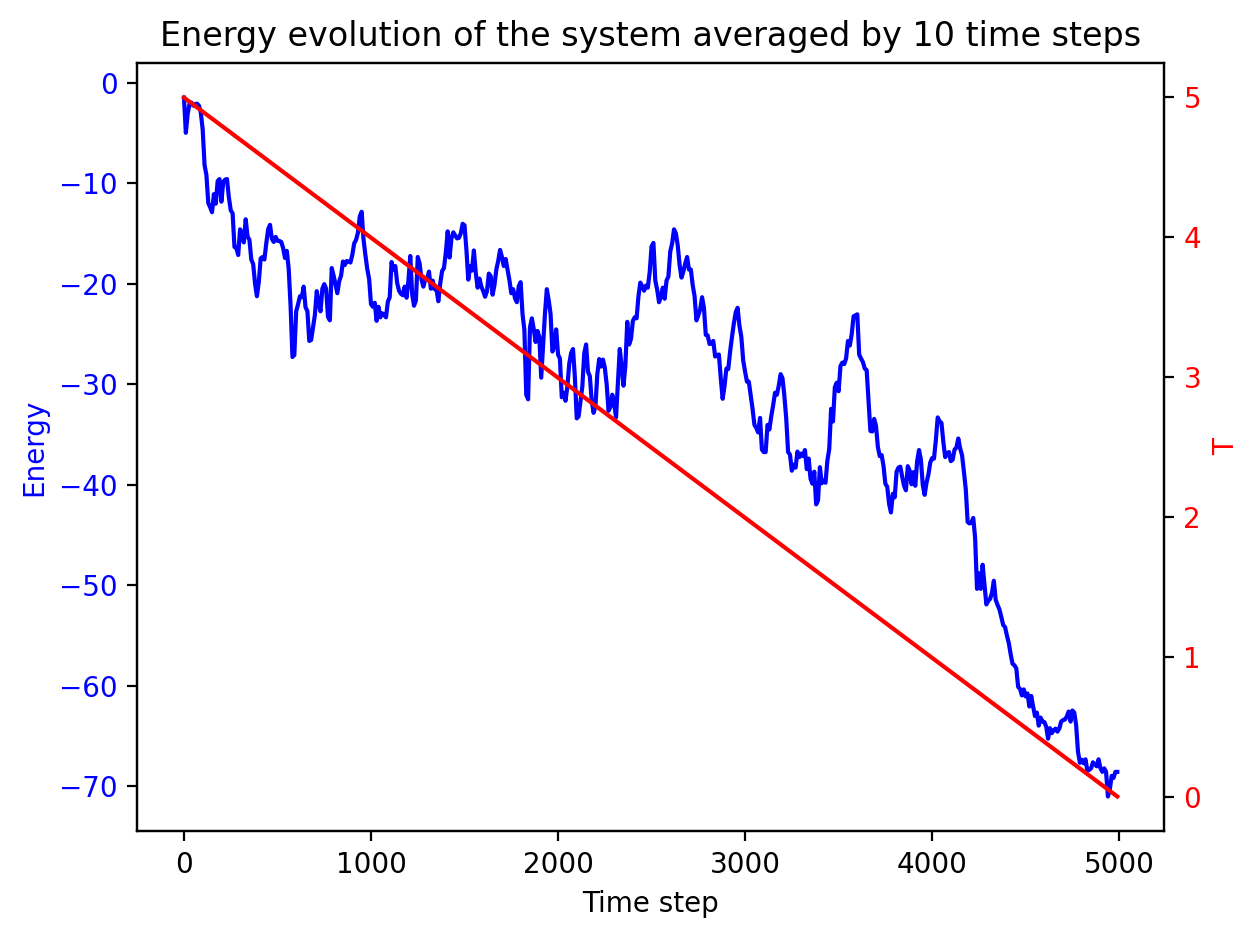
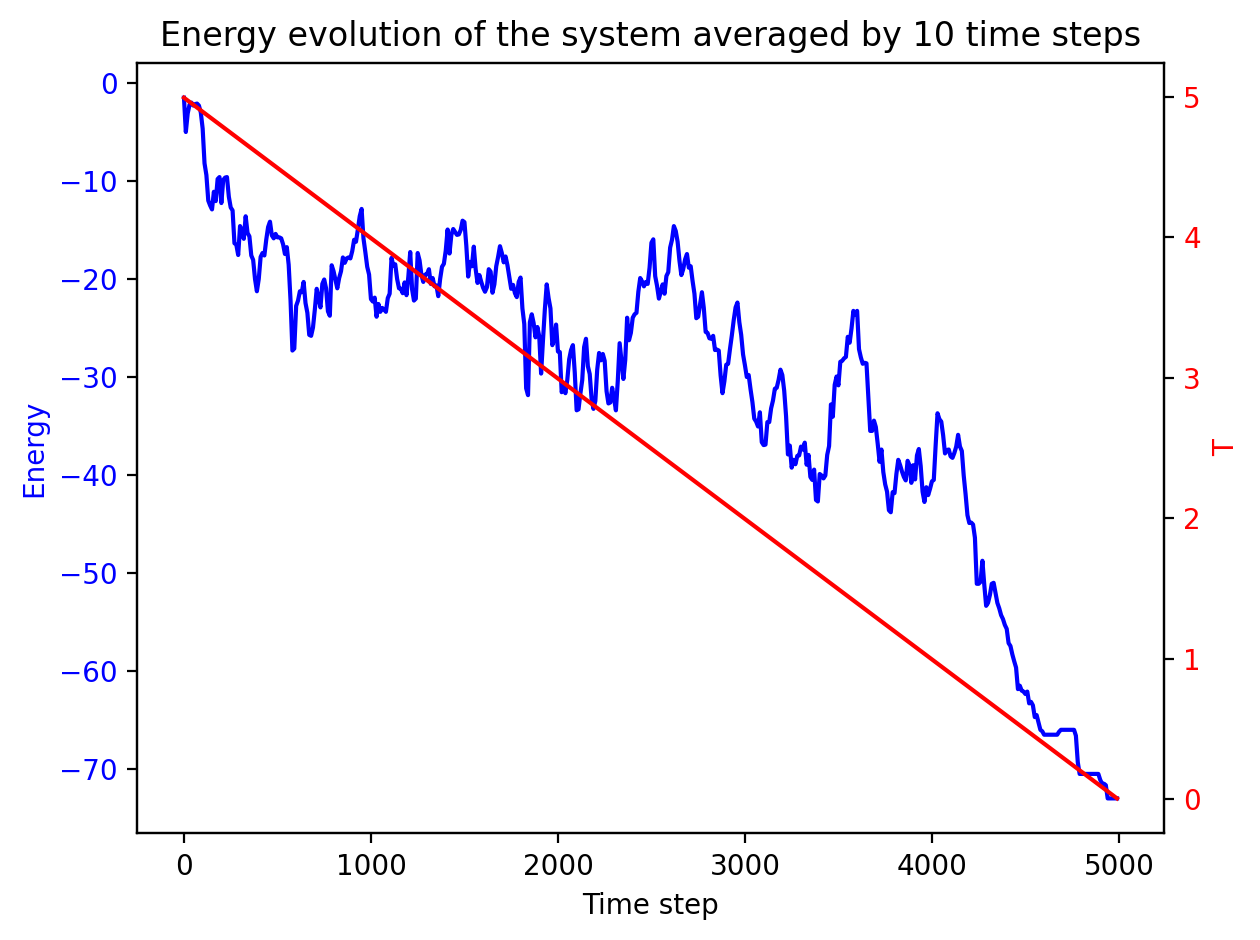
minors bug in protein energy evolution and README update

diff --git a/src/protein_class.py b/src/protein_class.py
@@ -114,12 +114,15 @@ class Protein:
         if new_energy > current_energy:
             if not self._accept_higher_energy(current_energy, new_energy, temperature):
                 self.struct = current_struct
+                self.energy_evolution.append(current_energy)
+            else:
+                self.energy_evolution.append(new_energy)
+        else:
+            self.energy_evolution.append(new_energy)
 
         # Update min energy and max compact structures
         if new_energy < min(self.energy_evolution):
             self.min_energy_structure = [coord.copy() for coord in self.struct]
-
-        self.energy_evolution.append(new_energy)
 
         comp = self.compactness()
         self.compactness_evolution.append(comp)

diff --git a/README.md b/README.md
@@ -36,20 +36,20 @@ From _terminal_ move into the desired folder and clone this repository using the
 git clone https://github.com/TommyGiak/HP_model.git
 ```
 
-Once the github repository is cloned use the following command to run the script with the default configuration file as
-input:
+Once the github repository is cloned use the following command to run the script, move to the `src` folder with:
+
+```shell
+cd src
+```
+
+and run the main script:
 
 ```shell
 python main.py
 ```
 
-the default configuration file is _config.txt_. Of course all the parameters can be setted, for further instruction look
+the default configuration file is _config.txt_ in the `src` folder. Of course all the parameters can be setted, for further instruction look
 at the following [paragraph](https://github.com/TommyGiak/HP_model#parameters-setting).\
-To use a specific configuration file, instead, use:
-
-```shell
-python main.py <filename>
-```
 
 To create a personalized configuration file
 look [here](https://github.com/TommyGiak/HP_model#create-a-personalized-configuration-file)\
@@ -66,7 +66,7 @@ configuration file exnovo as described below.
 
 ### Insert the protein sequence
 
-The protein sequence can be written in the _config.txt_ file at the _sequence_ variable. The sequence is caps sensitive
+The protein sequence can be written in the _config.txt_ file at the _sequence_ variable (in the `src` folder). The sequence is caps sensitive
 so the letters must be upper case only. The sequence doesn't need the quotation marks " or ' .\
 This sequence can be already given as H/P only monomers (hydrophobic or polar) or with the 20 different amino-acids
 coded upper case, is this case the sequence will be converted to H/P.
@@ -97,17 +97,35 @@ The new configuration file can have any extension.
 
 ## Repository structure
 
+```plaintext
+HP_model/
+├── data/
+│   └── all the plots...
+├── src/
+│   ├── __init__.py
+│   ├── config.yaml
+│   ├── main.py
+│   ├── plots.py
+│   ├── protein_class.py
+│   └── utils.py
+├── test/
+│   ├── __init__.py
+│   ├── config_test.yaml
+│   └── test.py
+└── requirements.txt
+```
+
 The repository contain these pyhton files:
 
-- _main.py_: runs the evolution and save the results in the _/data_ folder
-- _protein_class.py_: contains a class named `Protein` which contains and save the protein information and implement all
+- `src/main.py`: runs the evolution and save the results in the _/data_ folder
+- `src/protein_class.py`: contains a class named `Protein` which contains and save the protein information and implement all
   the main function for the evolution of the system
-- _utils.py_: contains different functions to validate the structures of the proteins and to support the evolution of
+- `src/utils.py`: contains different functions to validate the structures of the proteins and to support the evolution of
   the protein, including reordering of the input file configurations
-- _plots.py_: contains funtion to plot the results
-- _test.py_: contains the test functions to test the code
-- _config.txt_: contains the information needed by the program as input
-- _config_test.txt_: contains the information to start the test of the application; just to be sure to don't have
+- `src/plots.py`: contains funtion to plot the results
+- `test/test.py`: contains the test functions to test the code
+- `src/config.yaml`: contains the information needed by the program as input
+- `test/config_test.yaml`: contains the information to start the test of the application; just to be sure to don't have
   problems, I suggest you to don't modify it. To run the test is sufficient to write from terminal, inside the cloned
   repository, "pytest test.py" (pytest is required).
 
@@ -129,7 +147,7 @@ Each folding step involve the following steps:
 1. choose a random monomer in the protein: a random integer from $0$ to $l-1$ where $l$ is the lenght of the protein
    sequence. The sampled monomer will be the starting point for the movement of the protein.
 1. sample a random integer in $[1,8]$ to randomly select a type of move, the movement are implemented in the function [
-   `tail_fold`](https://github.com/TommyGiak/HP_model/blob/main/utils.py) in the _utils.py_ file. The movement are: 1 =
+   `tail_fold`](https://github.com/TommyGiak/HP_model/blob/main/src/utils.py) in the _utils.py_ file. The movement are: 1 =
    90° clockwise rotation, 2 = 90° anticlockwise rotation, 3 = 180° rotaion, 4 = x-axis refletion, 5 = y-axis
    reflection, 6 = 1 and 3 quadrant bisector symmetry, 7 = 2 and 4 quadrant bisector symmetry and 8 = movement on a
    digaonal of a random monomer. The movement can also be choosen a priori, if it is not specified a random one is
